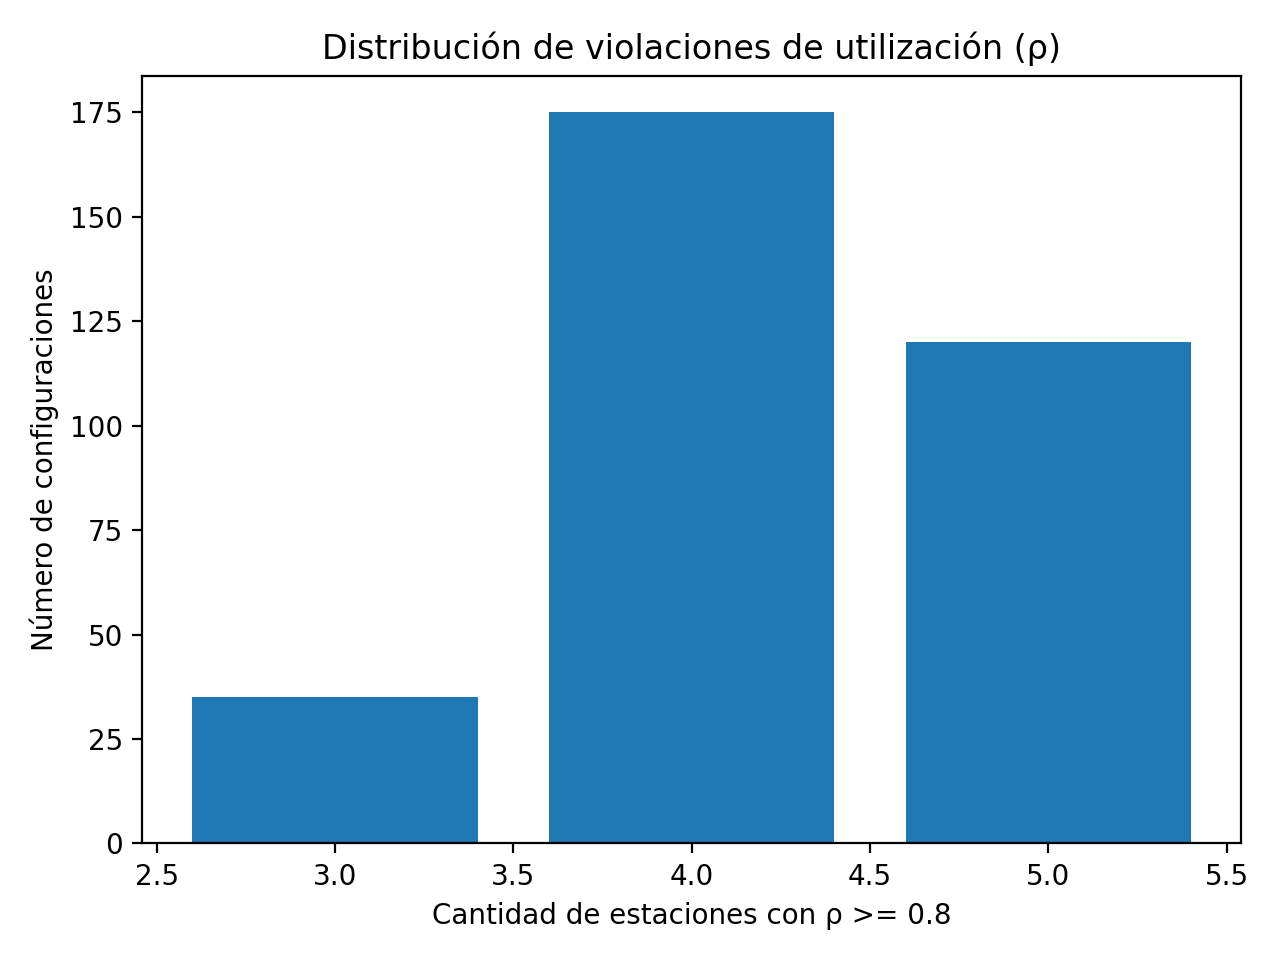
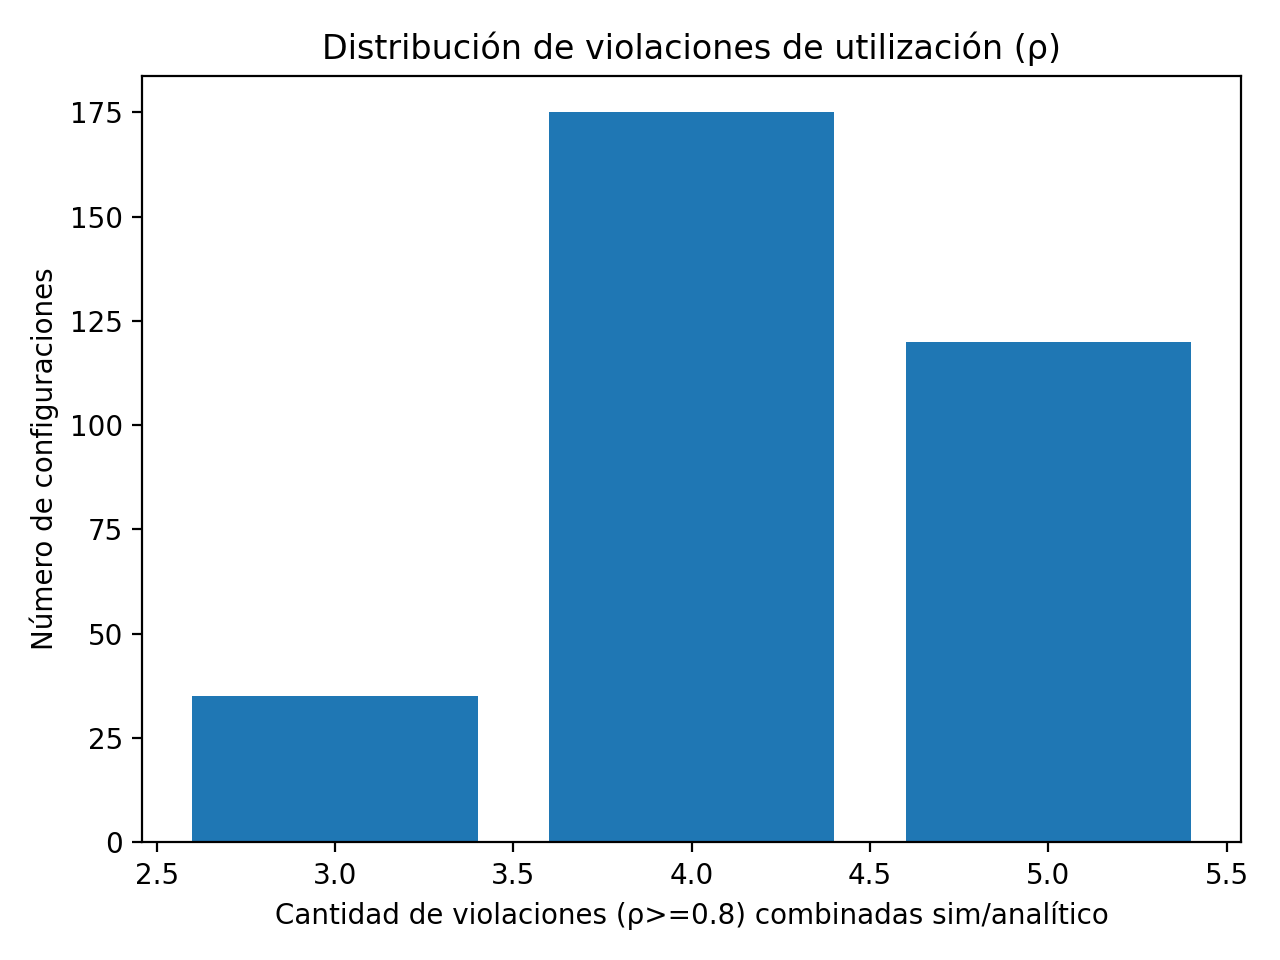
[UPDATE] Código y gráficas

diff --git a/Tareas/Tarea 5/graficar_tarea5.py b/Tareas/Tarea 5/graficar_tarea5.py
@@ -1,5 +1,5 @@
 # graficar_tarea5.py
-# Ejecuta sim_tarea5.py y genera gráficas PNG a partir de los CSV.
+# Corre sim_tarea5.py (opcional) y grafica los CSV generados.
 
 from __future__ import annotations
 
@@ -13,39 +13,26 @@ import matplotlib.pyplot as plt
 import numpy as np
 
 
-# -----------------------------
-# Helpers
-# -----------------------------
-def read_csv_safe(path: Path) -> pd.DataFrame:
-    """Lee CSV con fallback de encoding."""
-    try:
-        df = pd.read_csv(path, encoding="utf-8")
-    except UnicodeDecodeError:
-        df = pd.read_csv(path, encoding="latin-1")
-    # Normaliza nombres de columnas
-    df.columns = [str(c).strip() for c in df.columns]
-    return df
-
-
-def cfg_string_from_row(row: pd.Series, cfg_cols: list[str]) -> str:
-    vals = tuple(int(row[c]) for c in cfg_cols)
-    return f"{vals}"
-
-
 def ensure_dir(p: Path) -> None:
     p.mkdir(parents=True, exist_ok=True)
 
 
-# -----------------------------
-# Paso 1: correr simulación
-# -----------------------------
-def run_simulation(script_path: Path, out_txt: Path) -> None:
-    cmd = [sys.executable, str(script_path)]
+def read_csv_safe(path: Path) -> pd.DataFrame:
+    try:
+        df = pd.read_csv(path, encoding="utf-8")
+    except UnicodeDecodeError:
+        df = pd.read_csv(path, encoding="latin-1")
+    df.columns = [str(c).strip() for c in df.columns]
+    return df
+
+
+def run_simulation(sim_script: Path, out_txt: Path) -> None:
+    cmd = [sys.executable, str(sim_script)]
     result = subprocess.run(cmd, capture_output=True, text=True)
 
     stamp = datetime.now().strftime("%Y-%m-%d %H:%M:%S")
     out_txt.write_text(
-        f"=== Salida de {script_path.name} ===\n"
+        f"=== Salida de {sim_script.name} ===\n"
         f"Fecha: {stamp}\n\n"
         f"--- STDOUT ---\n{result.stdout}\n\n"
         f"--- STDERR ---\n{result.stderr}\n",
@@ -54,86 +41,81 @@ def run_simulation(script_path: Path, out_txt: Path) -> None:
 
     if result.returncode != 0:
         raise RuntimeError(
-            f"Error ejecutando {script_path.name}. Revisá {out_txt.name}.\n"
+            f"Error ejecutando {sim_script.name}. Revisá {out_txt.name}.\n"
             f"Return code: {result.returncode}"
         )
 
 
-# -----------------------------
-# Paso 2: gráficas principales
-# -----------------------------
-def plot_top_by_W(df: pd.DataFrame, figdir: Path, cfg_cols: list[str]) -> None:
-    if "W_sim" not in df.columns:
+def detect_results_csv(base: Path) -> Path | None:
+    p = base / "resultados_todas_configuraciones.csv"
+    if p.exists():
+        return p
+    # fallback por si cambió nombre
+    cands = sorted(base.glob("resultados*configuraciones*.csv"))
+    return cands[0] if cands else None
+
+
+def cfg_cols_in_results(df: pd.DataFrame) -> list[str]:
+    preferred = ["cajas", "ref", "frei", "pos", "pol"]
+    if all(c in df.columns for c in preferred):
+        return preferred
+    # fallback: primeras 5 columnas
+    return list(df.columns[:5])
+
+
+def cfg_string(row: pd.Series, cols: list[str]) -> str:
+    return str(tuple(int(row[c]) for c in cols))
+
+
+# ---------------------------
+# Gráficas (resultados)
+# ---------------------------
+def plot_top(df: pd.DataFrame, figdir: Path, cfg_cols: list[str], metric: str, fname: str, title: str, ylabel: str, with_ci: bool = False) -> None:
+    if metric not in df.columns:
         return
 
     d = df.copy()
-    d["cfg"] = d.apply(lambda r: cfg_string_from_row(r, cfg_cols), axis=1)
-    d = d.sort_values("W_sim", ascending=True).head(15)
+    d["cfg"] = d.apply(lambda r: cfg_string(r, cfg_cols), axis=1)
+    d = d.sort_values(metric, ascending=True).head(15)
 
     x = np.arange(len(d))
     plt.figure()
-    plt.bar(x, d["W_sim"].values)
+    plt.bar(x, d[metric].values)
 
-    # Si hay IC, agrega barras de error
-    if "IC_low" in d.columns and "IC_high" in d.columns:
-        y = d["W_sim"].values
+    if with_ci and ("IC_low" in d.columns) and ("IC_high" in d.columns):
+        y = d[metric].values
         low = y - d["IC_low"].values
         high = d["IC_high"].values - y
         yerr = np.vstack([low, high])
         plt.errorbar(x, y, yerr=yerr, fmt="none", capsize=3)
 
     plt.xticks(x, d["cfg"].values, rotation=45, ha="right")
-    plt.ylabel("W̄ (min)")
-    plt.title("Top 15 configuraciones con menor W̄")
+    plt.ylabel(ylabel)
+    plt.title(title)
     plt.tight_layout()
-    plt.savefig(figdir / "top15_menor_W.png", dpi=200)
+    plt.savefig(figdir / fname, dpi=200)
     plt.close()
 
 
-def plot_top_by_VarW(df: pd.DataFrame, figdir: Path, cfg_cols: list[str]) -> None:
-    if "Var_W" not in df.columns:
+def plot_pareto(df: pd.DataFrame, figdir: Path) -> None:
+    # Pareto recomendado: W_profe (objetivo MIN_W) vs Var_W
+    if "W_profe" not in df.columns or "Var_W" not in df.columns:
         return
 
-    d = df.copy()
-    d["cfg"] = d.apply(lambda r: cfg_string_from_row(r, cfg_cols), axis=1)
-    d = d.sort_values("Var_W", ascending=True).head(15)
-
-    x = np.arange(len(d))
     plt.figure()
-    plt.bar(x, d["Var_W"].values)
-    plt.xticks(x, d["cfg"].values, rotation=45, ha="right")
+    plt.scatter(df["W_profe"], df["Var_W"], s=12)
+    plt.xlabel("W_profe = T / clientes (min/cliente)")
     plt.ylabel("Var(W) (min²)")
-    plt.title("Top 15 configuraciones con menor Var(W)")
+    plt.title("Pareto: W_profe vs Var(W)")
     plt.tight_layout()
-    plt.savefig(figdir / "top15_menor_VarW.png", dpi=200)
-    plt.close()
-
-
-def plot_pareto(df: pd.DataFrame, figdir: Path, cfg_cols: list[str]) -> None:
-    if "W_sim" not in df.columns or "Var_W" not in df.columns:
-        return
-
-    d = df.copy()
-    d["cfg"] = d.apply(lambda r: cfg_string_from_row(r, cfg_cols), axis=1)
-
-    plt.figure()
-    plt.scatter(d["W_sim"], d["Var_W"], s=12)
-    plt.xlabel("W̄ (min)")
-    plt.ylabel("Var(W) (min²)")
-    plt.title("Pareto: W̄ vs Var(W)")
-    plt.tight_layout()
-    plt.savefig(figdir / "pareto_W_vs_VarW.png", dpi=200)
+    plt.savefig(figdir / "pareto_Wprofe_vs_VarW.png", dpi=200)
     plt.close()
 
 
 def plot_violations(df: pd.DataFrame, figdir: Path) -> None:
-    col = None
-    for candidate in ["viol_rho", "viol", "violaciones", "viol_rho_something"]:
-        if candidate in df.columns:
-            col = candidate
-            break
-    # Si no encuentra, intenta por nombre parcial
+    col = "viol_rho" if "viol_rho" in df.columns else None
     if col is None:
+        # fallback: buscar algo que contenga "viol"
         for c in df.columns:
             if "viol" in c.lower():
                 col = c
@@ -147,7 +129,7 @@ def plot_violations(df: pd.DataFrame, figdir: Path) -> None:
 
     plt.figure()
     plt.bar(x, y)
-    plt.xlabel("Cantidad de estaciones con ρ >= 0.8")
+    plt.xlabel("Cantidad de violaciones (ρ>=0.8) combinadas sim/analítico")
     plt.ylabel("Número de configuraciones")
     plt.title("Distribución de violaciones de utilización (ρ)")
     plt.tight_layout()
@@ -155,15 +137,34 @@ def plot_violations(df: pd.DataFrame, figdir: Path) -> None:
     plt.close()
 
 
-# -----------------------------
-# Paso 3: gráficas de lambda_hat
-# -----------------------------
+def plot_score(df: pd.DataFrame, figdir: Path, cfg_cols: list[str]) -> None:
+    if "score_total_100" not in df.columns:
+        return
+
+    d = df.copy()
+    d["cfg"] = d.apply(lambda r: cfg_string(r, cfg_cols), axis=1)
+    d = d.sort_values("score_total_100", ascending=False).head(15)
+
+    x = np.arange(len(d))
+    plt.figure()
+    plt.bar(x, d["score_total_100"].values)
+    plt.xticks(x, d["cfg"].values, rotation=45, ha="right")
+    plt.ylabel("Score total (0-100)")
+    plt.title("Top 15 configuraciones por score total")
+    plt.tight_layout()
+    plt.savefig(figdir / "top15_score_total.png", dpi=200)
+    plt.close()
+
+
+# ---------------------------
+# Gráficas (lambda_hat)
+# ---------------------------
 def plot_lambda_table(csv_path: Path, figdir: Path) -> None:
     df = read_csv_safe(csv_path)
-    needed = {"estacion", "lambda_hat_sim", "lambda_teorico_1pEK", "ratio_sim_teorico"}
-    if not needed.issubset(set(df.columns)):
-        # Si vienen con nombres distintos, intentamos detectar por “contiene”
-        # (pero si no calza, simplemente no graficamos)
+
+    # Nombres nuevos según tu actualización
+    required = {"estacion", "lambda_hat_sim", "lambda_teorico_lpEK", "ratio_sim_teorico"}
+    if not required.issubset(set(df.columns)):
         return
 
     stations = df["estacion"].astype(str).tolist()
@@ -172,20 +173,20 @@ def plot_lambda_table(csv_path: Path, figdir: Path) -> None:
     # 1) Ratio
     plt.figure()
     plt.bar(x, df["ratio_sim_teorico"].values)
-    plt.xticks(x, stations, rotation=0)
-    plt.ylabel("ratio (sim / teorico)")
+    plt.xticks(x, stations)
+    plt.ylabel("ratio (sim / teórico)")
     plt.title(f"Ratio λ̂ vs teórico — {csv_path.stem}")
     plt.tight_layout()
     plt.savefig(figdir / f"ratio_lambda_{csv_path.stem}.png", dpi=200)
     plt.close()
 
-    # 2) Comparación λ̂ y teórico (log para que quepan si hay desbalance)
+    # 2) Comparación λ̂ y teórico (log para que se vea aunque haya diferencias grandes)
     plt.figure()
     width = 0.38
     plt.bar(x - width / 2, df["lambda_hat_sim"].values, width=width, label="lambda_hat_sim")
-    plt.bar(x + width / 2, df["lambda_teorico_1pEK"].values, width=width, label="lambda_teorico_1pEK")
+    plt.bar(x + width / 2, df["lambda_teorico_lpEK"].values, width=width, label="lambda_teorico_lpEK")
     plt.yscale("log")
-    plt.xticks(x, stations, rotation=0)
+    plt.xticks(x, stations)
     plt.ylabel("tasa (escala log)")
     plt.title(f"λ̂ (sim) vs λ·p·E[K] (teórico) — {csv_path.stem}")
     plt.legend()
@@ -194,65 +195,79 @@ def plot_lambda_table(csv_path: Path, figdir: Path) -> None:
     plt.close()
 
 
-# -----------------------------
-# Main
-# -----------------------------
 def main() -> int:
     base = Path.cwd()
-    sim_script = base / "sim_tarea5.py"
     figdir = base / "figuras"
     ensure_dir(figdir)
 
-    # Flags simples:
-    #   python graficar_tarea5.py --skip-run
     skip_run = "--skip-run" in sys.argv
 
-    # 1) Ejecutar simulación (opcional)
+    # 1) Ejecutar sim (opcional)
+    sim_script = base / "sim_tarea5.py"
     if not skip_run:
         if not sim_script.exists():
-            print("No encuentro sim_tarea5.py en esta carpeta.")
+            print("❌ No encuentro sim_tarea5.py en esta carpeta.")
+            print("   Solución: poné graficar_tarea5.py en la carpeta de la Tarea 5 donde está sim_tarea5.py")
             return 1
+
         out_txt = base / "salida_sim_tarea5.txt"
-        print(f"Ejecutando {sim_script.name} ...")
+        print("▶ Ejecutando sim_tarea5.py ...")
         run_simulation(sim_script, out_txt)
-        print(f"Listo. Salida guardada en: {out_txt.name}")
+        print(f"✅ Salida guardada en: {out_txt.name}")
 
-    # 2) Leer resultados_todas_configuraciones.csv
-    results_csv = base / "resultados_todas_configuraciones.csv"
-    if not results_csv.exists():
-        # fallback por si el nombre varía
-        candidates = list(base.glob("resultados*configuraciones*.csv"))
-        if candidates:
-            results_csv = candidates[0]
-
-    if results_csv.exists():
-        df = read_csv_safe(results_csv)
-
-        # Detecta columnas de configuración (las 5 primeras típicamente)
-        # Preferimos estas por nombre:
-        preferred = ["cajas", "ref", "frei", "pos", "pol"]
-        if all(c in df.columns for c in preferred):
-            cfg_cols = preferred
-        else:
-            # fallback: toma primeras 5 columnas
-            cfg_cols = list(df.columns[:5])
-
-        plot_top_by_W(df, figdir, cfg_cols)
-        plot_top_by_VarW(df, figdir, cfg_cols)
-        plot_pareto(df, figdir, cfg_cols)
-        plot_violations(df, figdir)
-        print(f"Gráficas principales guardadas en: {figdir}/")
+    # 2) Resultados por configuración
+    results_csv = detect_results_csv(base)
+    if results_csv is None:
+        print("⚠ No encontré resultados_todas_configuraciones.csv (ni variantes).")
     else:
-        print("No encontré resultados_todas_configuraciones.csv (ni variantes).")
+        df = read_csv_safe(results_csv)
+        cfg_cols = cfg_cols_in_results(df)
 
-    # 3) Tablas λ̂ vs teórico
+        # Top por W_profe (tu objetivo MIN_W)
+        plot_top(
+            df, figdir, cfg_cols,
+            metric="W_profe",
+            fname="top15_menor_Wprofe.png",
+            title="Top 15 configuraciones con menor W_profe (T/clientes)",
+            ylabel="W_profe (min/cliente)",
+            with_ci=False
+        )
+
+        # Top por W_sim (tiempo real en sistema, con IC si existe)
+        plot_top(
+            df, figdir, cfg_cols,
+            metric="W_sim",
+            fname="top15_menor_Wsim.png",
+            title="Top 15 configuraciones con menor W_sim (con IC si aplica)",
+            ylabel="W_sim (min)",
+            with_ci=True
+        )
+
+        # Top por Var_W
+        plot_top(
+            df, figdir, cfg_cols,
+            metric="Var_W",
+            fname="top15_menor_VarW.png",
+            title="Top 15 configuraciones con menor Var(W)",
+            ylabel="Var(W) (min²)",
+            with_ci=False
+        )
+
+        plot_pareto(df, figdir)
+        plot_violations(df, figdir)
+        plot_score(df, figdir, cfg_cols)
+
+        print(f"✅ Gráficas principales guardadas en: {figdir}/")
+
+    # 3) Tablas lambda_hat
     lambda_csvs = sorted(base.glob("lambda_hat_vs_teorico_*.csv"))
     for p in lambda_csvs:
         plot_lambda_table(p, figdir)
-    if lambda_csvs:
-        print("Gráficas de lambda_hat guardadas también en figuras/")
 
-    print("✅ Listo.")
+    if lambda_csvs:
+        print("✅ Gráficas de λ̂ guardadas en figuras/")
+
+    print("✅ Listo. Abrí la carpeta 'figuras' para ver los PNG.")
     return 0
 
 
